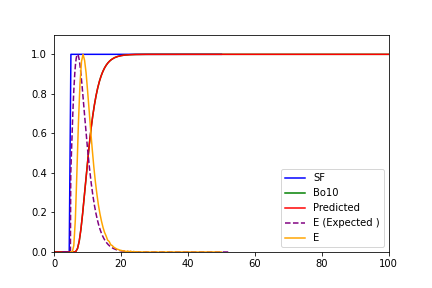
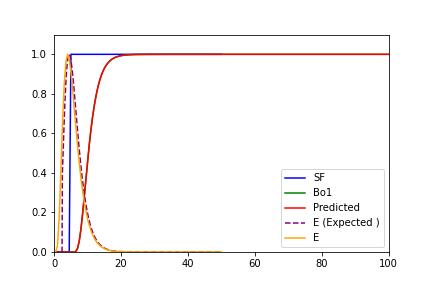
0810 after meeting

Changed region(s): [[0.1204, 0.1875, 0.331, 0.875], [0.7523, 0.6562, 0.7824, 0.6875]]

diff --git a/Experiments/Preliminary/Convolution_script/Convolution_016_Dispersion_Model/Conv_dispersion_016.py b/Experiments/Preliminary/Convolution_script/Convolution_016_Dispersion_Model/Conv_dispersion_016.py
@@ -17,7 +17,7 @@ from lightning.pytorch import loggers as pl_loggers
 # module_path = os.path.expanduser("~/Documents/GitHub/nRTD/lib")
 # sys.path.append(module_path)
 
-tau_5_dir = '/Users/tuanaoyuncu/Documents/GitHub/nRTD/Experiments/Preliminary/Litrature/Dispersion_Model/Bo1_200_150s'
+tau_5_dir = '/Users/tuanaoyuncu/Documents/GitHub/nRTD/Experiments/Preliminary/Litrature/Dispersion_Model/Bo10_200_150s'
 t_conv_tau = torch.tensor(np.load(os.path.join(tau_5_dir, 'time.npy')), dtype=torch.float32).unsqueeze(0).unsqueeze(0)
 c_out_tau = torch.tensor(np.load(os.path.join(tau_5_dir, 'concentration.npy')), dtype=torch.float32).unsqueeze(0).unsqueeze(0)
 
@@ -46,7 +46,7 @@ model = RTDModule(
 
 c_conv = model(c_in)
 E = model.net.E[0]
-t_E = torch.linspace(5, 50, model.kernel_size)
+t_E = torch.linspace(0, 50, model.kernel_size)
 E = E / E.max()
 j = 0
 
@@ -108,12 +108,12 @@ c_conv = model(c_in)
 E = model.net.E[0]
 # t_E = torch.linspace(5, 50, model.kernel_size)  
 # E = E / torch.sum(E * (t_E[1] - t_E[0]))  
-t_E = torch.linspace(5, 50, model.kernel_size)
+t_E = torch.linspace(0, 50, model.kernel_size)
 E = E / E.max()
 t_E_np = np.linspace(0, 50,500)
 
 def expected_formula(t):
-    return np.where(t >= 2.5, 1/2*(np.sqrt(1/(np.pi*(t/5))))*np.exp(-(1*((1-(t/5))**2))/(4*(t/5))), 0)
+    return np.where(t >= 2.5, 1/2*(np.sqrt(10/(np.pi*(t/5))))*np.exp(-(10*((1-(t/5))**2))/(4*(t/5))), 0)
 E_expected_np = expected_formula(t_E_np)
 dt = t_E_np[1] - t_E_np[0]  
 E_expected_np /= np.sum(E_expected_np * dt)
@@ -137,10 +137,10 @@ plt.plot(
     label="Predicted",
     color="red",
 )
-plt.plot(t_E_np+2.5, E_expected_np, label="E (Expected )", color="purple", linestyle="--")
+plt.plot(t_E_np, E_expected_np, label="E (Expected )", color="purple", linestyle="--")
 plt.plot(t_E, E, label="E", color="orange")
 plt.xlim((0, 100))
 plt.ylim((0, 1.1))
 plt.legend()
-plt.savefig("Figure_conv_dispersion_Bo1_200disc_expected_epoch_10000_003")
+plt.savefig("Figure_conv_dispersion_Bo10_200disc_expected_epoch_10000_003")
 plt.show()

diff --git a/Experiments/Preliminary/Convolution_script/Convolution_011_Laminar_Model/Conv_laminar.py b/Experiments/Preliminary/Convolution_script/Convolution_011_Laminar_Model/Conv_laminar.py
@@ -153,5 +153,5 @@ plt.xlim((0, 20))
 plt.ylim((0, 1.1))
 plt.legend()
 
-plt.savefig("Figure_conv_laminar_002_dis200_expected_004_disc")
+#plt.savefig("Figure_conv_laminar_002_dis200_expected_004_disc")
 plt.show()
